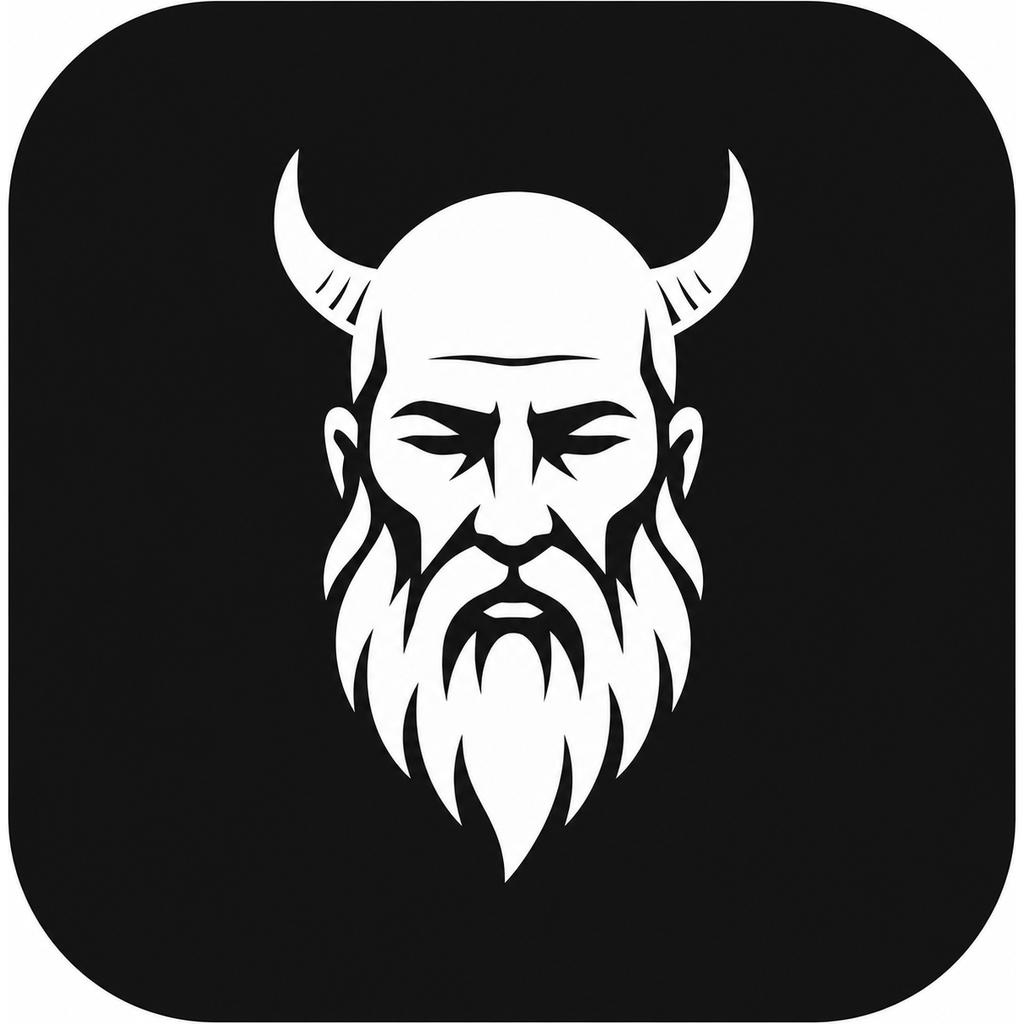
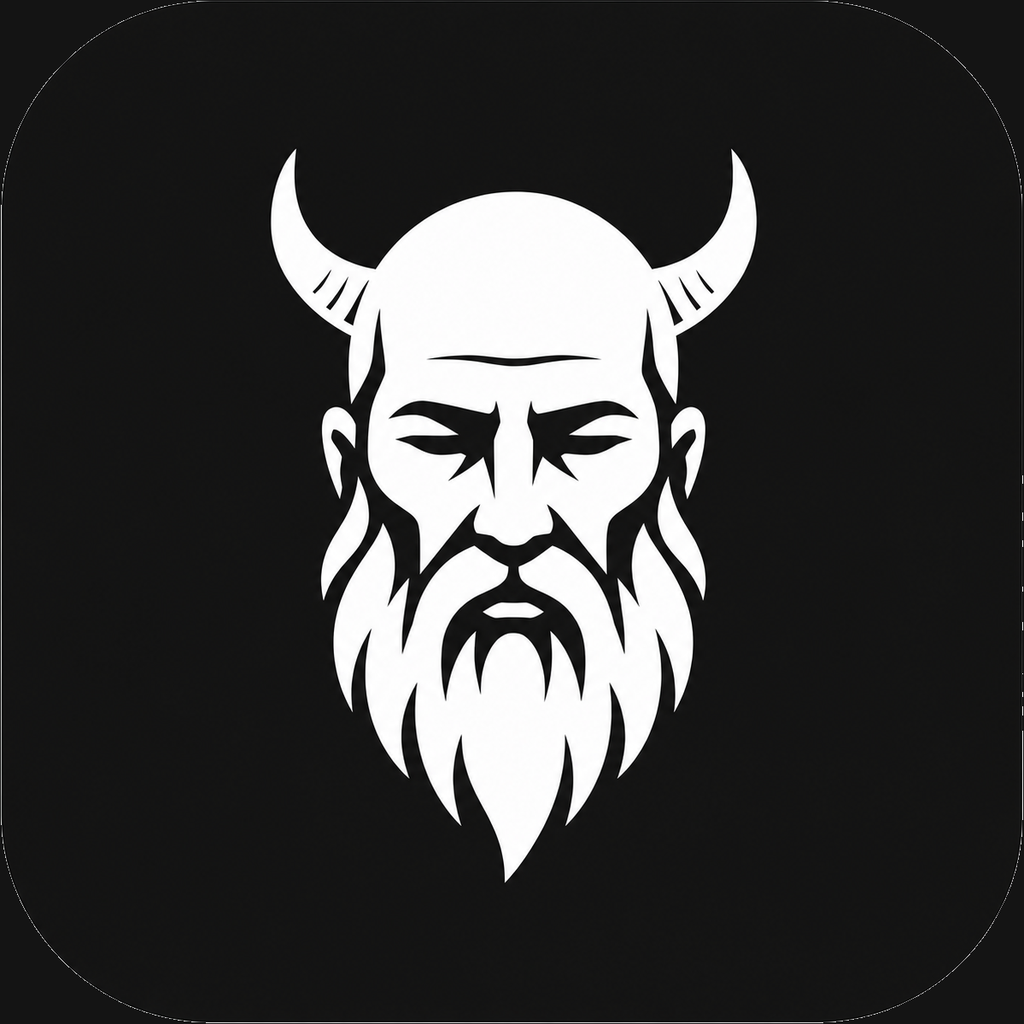
fix: full-bleed AppIcon and fix NSAppearance.currentDrawing() API
- Flood-fill background white pixels in AppIcon with dark (#141414) so
  icon fills edge-to-edge with no gray Finder border
- Fix NSAppearance.currentDrawing() call (was currentDrawingAppearance)

diff --git a/Sources/Mimir/MimirApp.swift b/Sources/Mimir/MimirApp.swift
@@ -191,7 +191,7 @@ final class AppDelegate: NSObject, NSApplicationDelegate {
             NSBezierPath(ovalIn: rect).addClip()
             source.draw(in: rect, from: NSRect(origin: .zero, size: source.size),
                         operation: .sourceOver, fraction: 1.0)
-            let isDark = NSAppearance.current?.bestMatch(from: [.darkAqua, .aqua]) == .darkAqua
+            let isDark = NSAppearance.currentDrawing().bestMatch(from: [.darkAqua, .aqua]) == .darkAqua
             if !isDark {
                 // Tint icon black for light menu bar: sourceAtop replaces opaque pixels with black
                 // while preserving the alpha mask of the drawn icon.